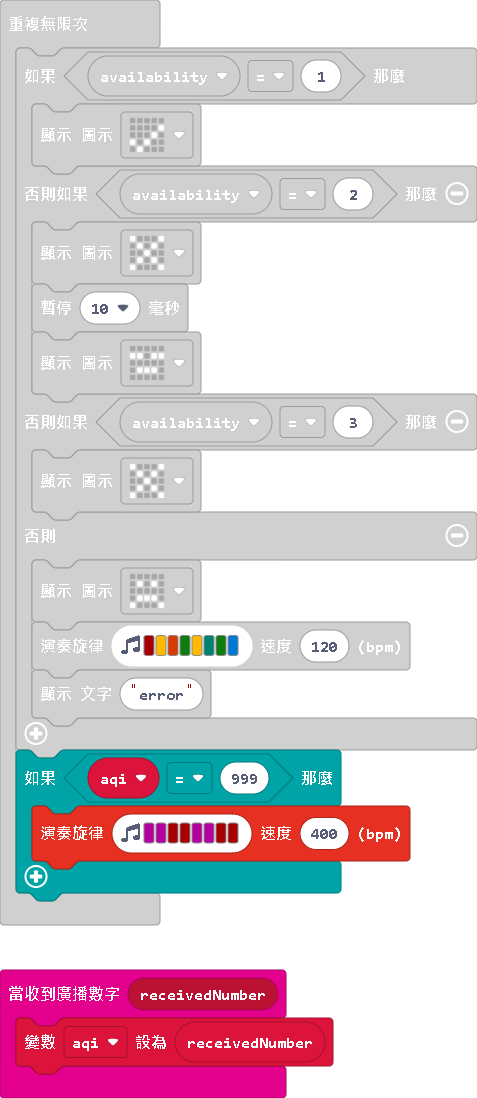
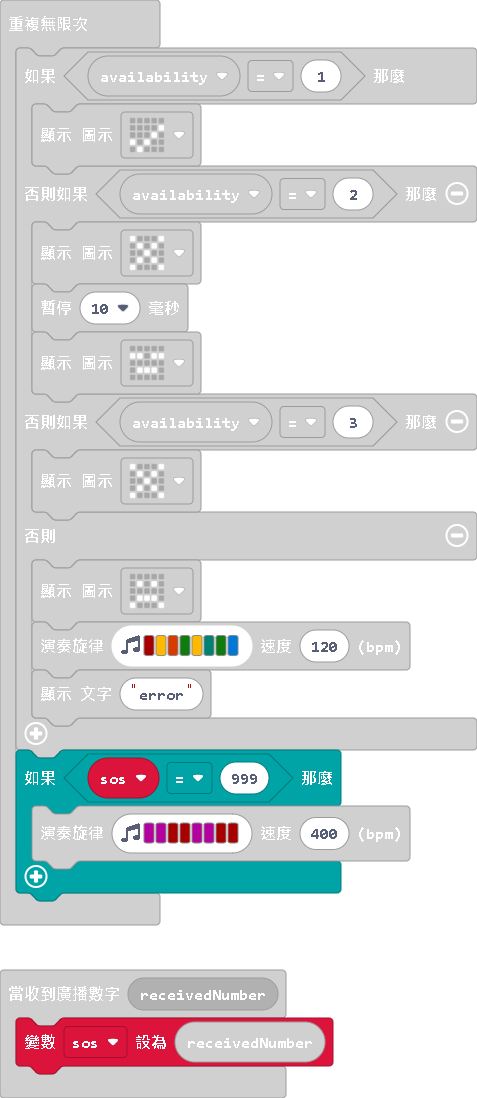
更新 main.blocks, main.ts

Changed region(s): [[0.0, 0.867, 0.7044, 1.0], [0.0587, 0.7122, 0.8805, 0.8051]]

diff --git a/main.ts b/main.ts
@@ -1,11 +1,11 @@
 radio.onReceivedNumber(function (receivedNumber) {
-    aqi = receivedNumber
+    sos = receivedNumber
 })
 radio.onReceivedValue(function (name, value) {
     availability = value
 })
 let availability = 0
-let aqi = 0
+let sos = 0
 music.stopAllSounds()
 basic.clearScreen()
 radio.setGroup(11)
@@ -25,7 +25,7 @@ basic.forever(function () {
         music.playMelody("C5 A B G A F G E ", 120)
         basic.showString("error")
     }
-    if (aqi == 999) {
+    if (sos == 999) {
         music.playMelody("C C C5 C5 C C C5 C5 ", 400)
     }
 })
